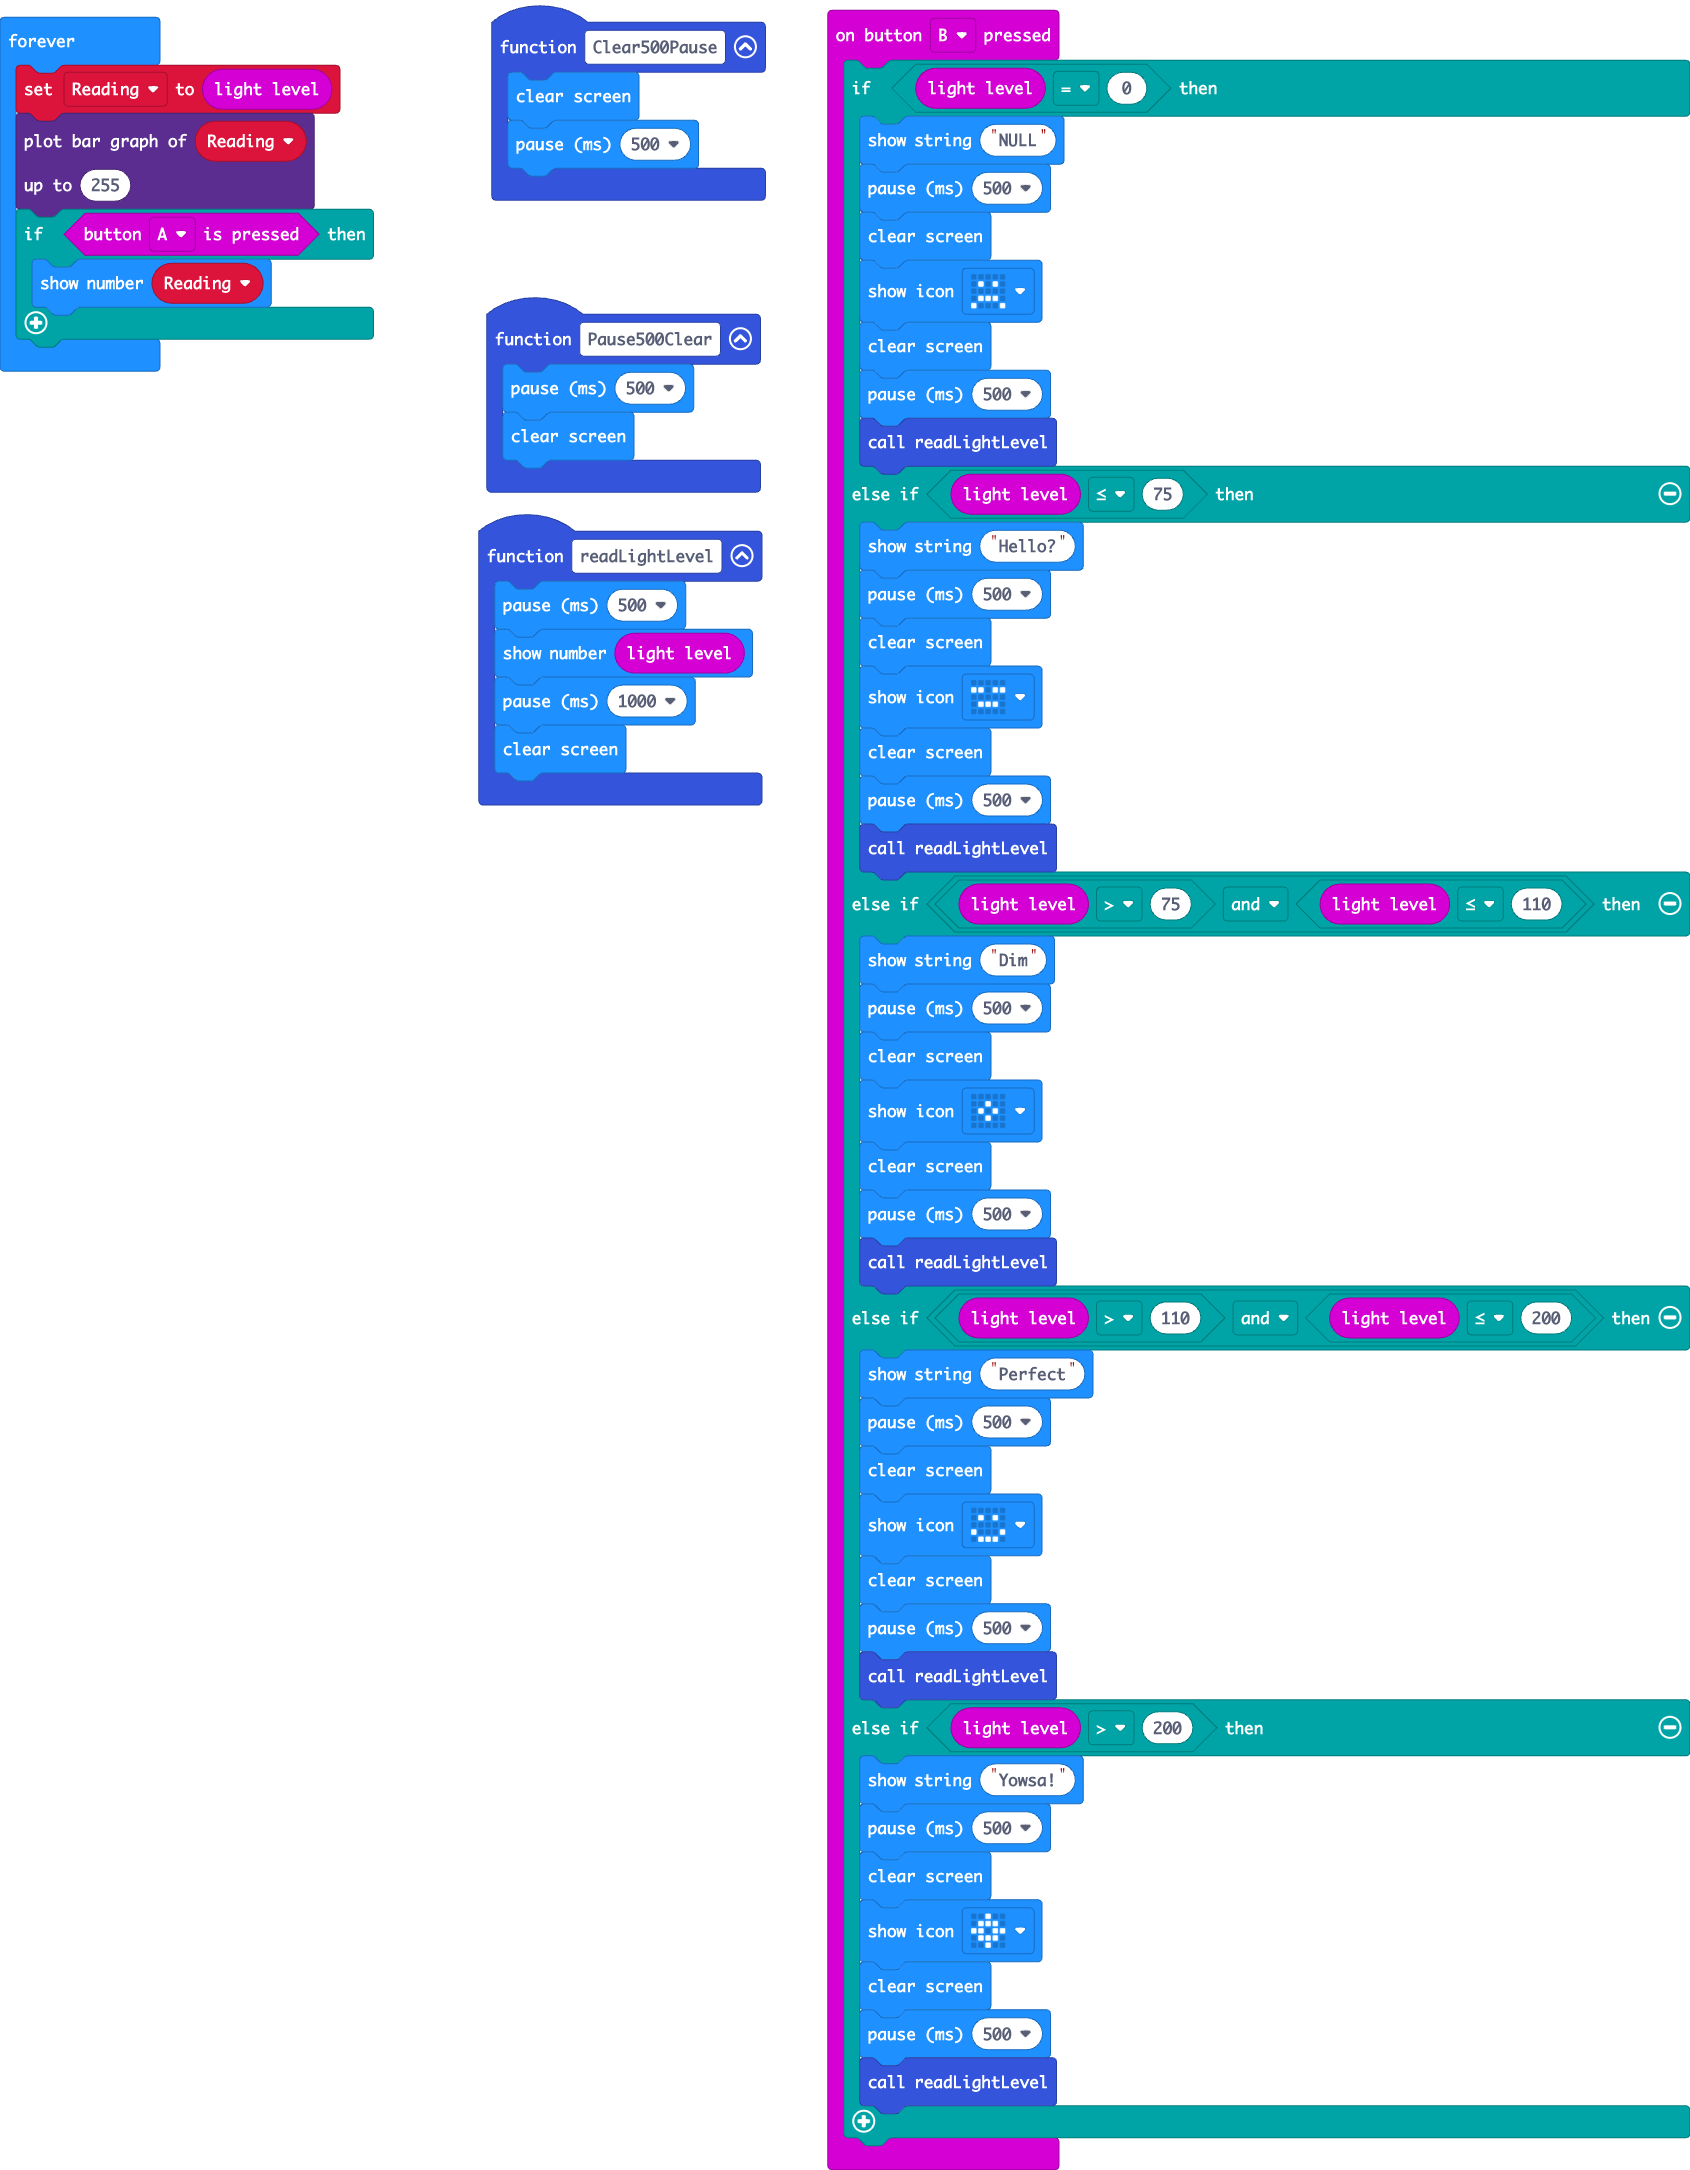
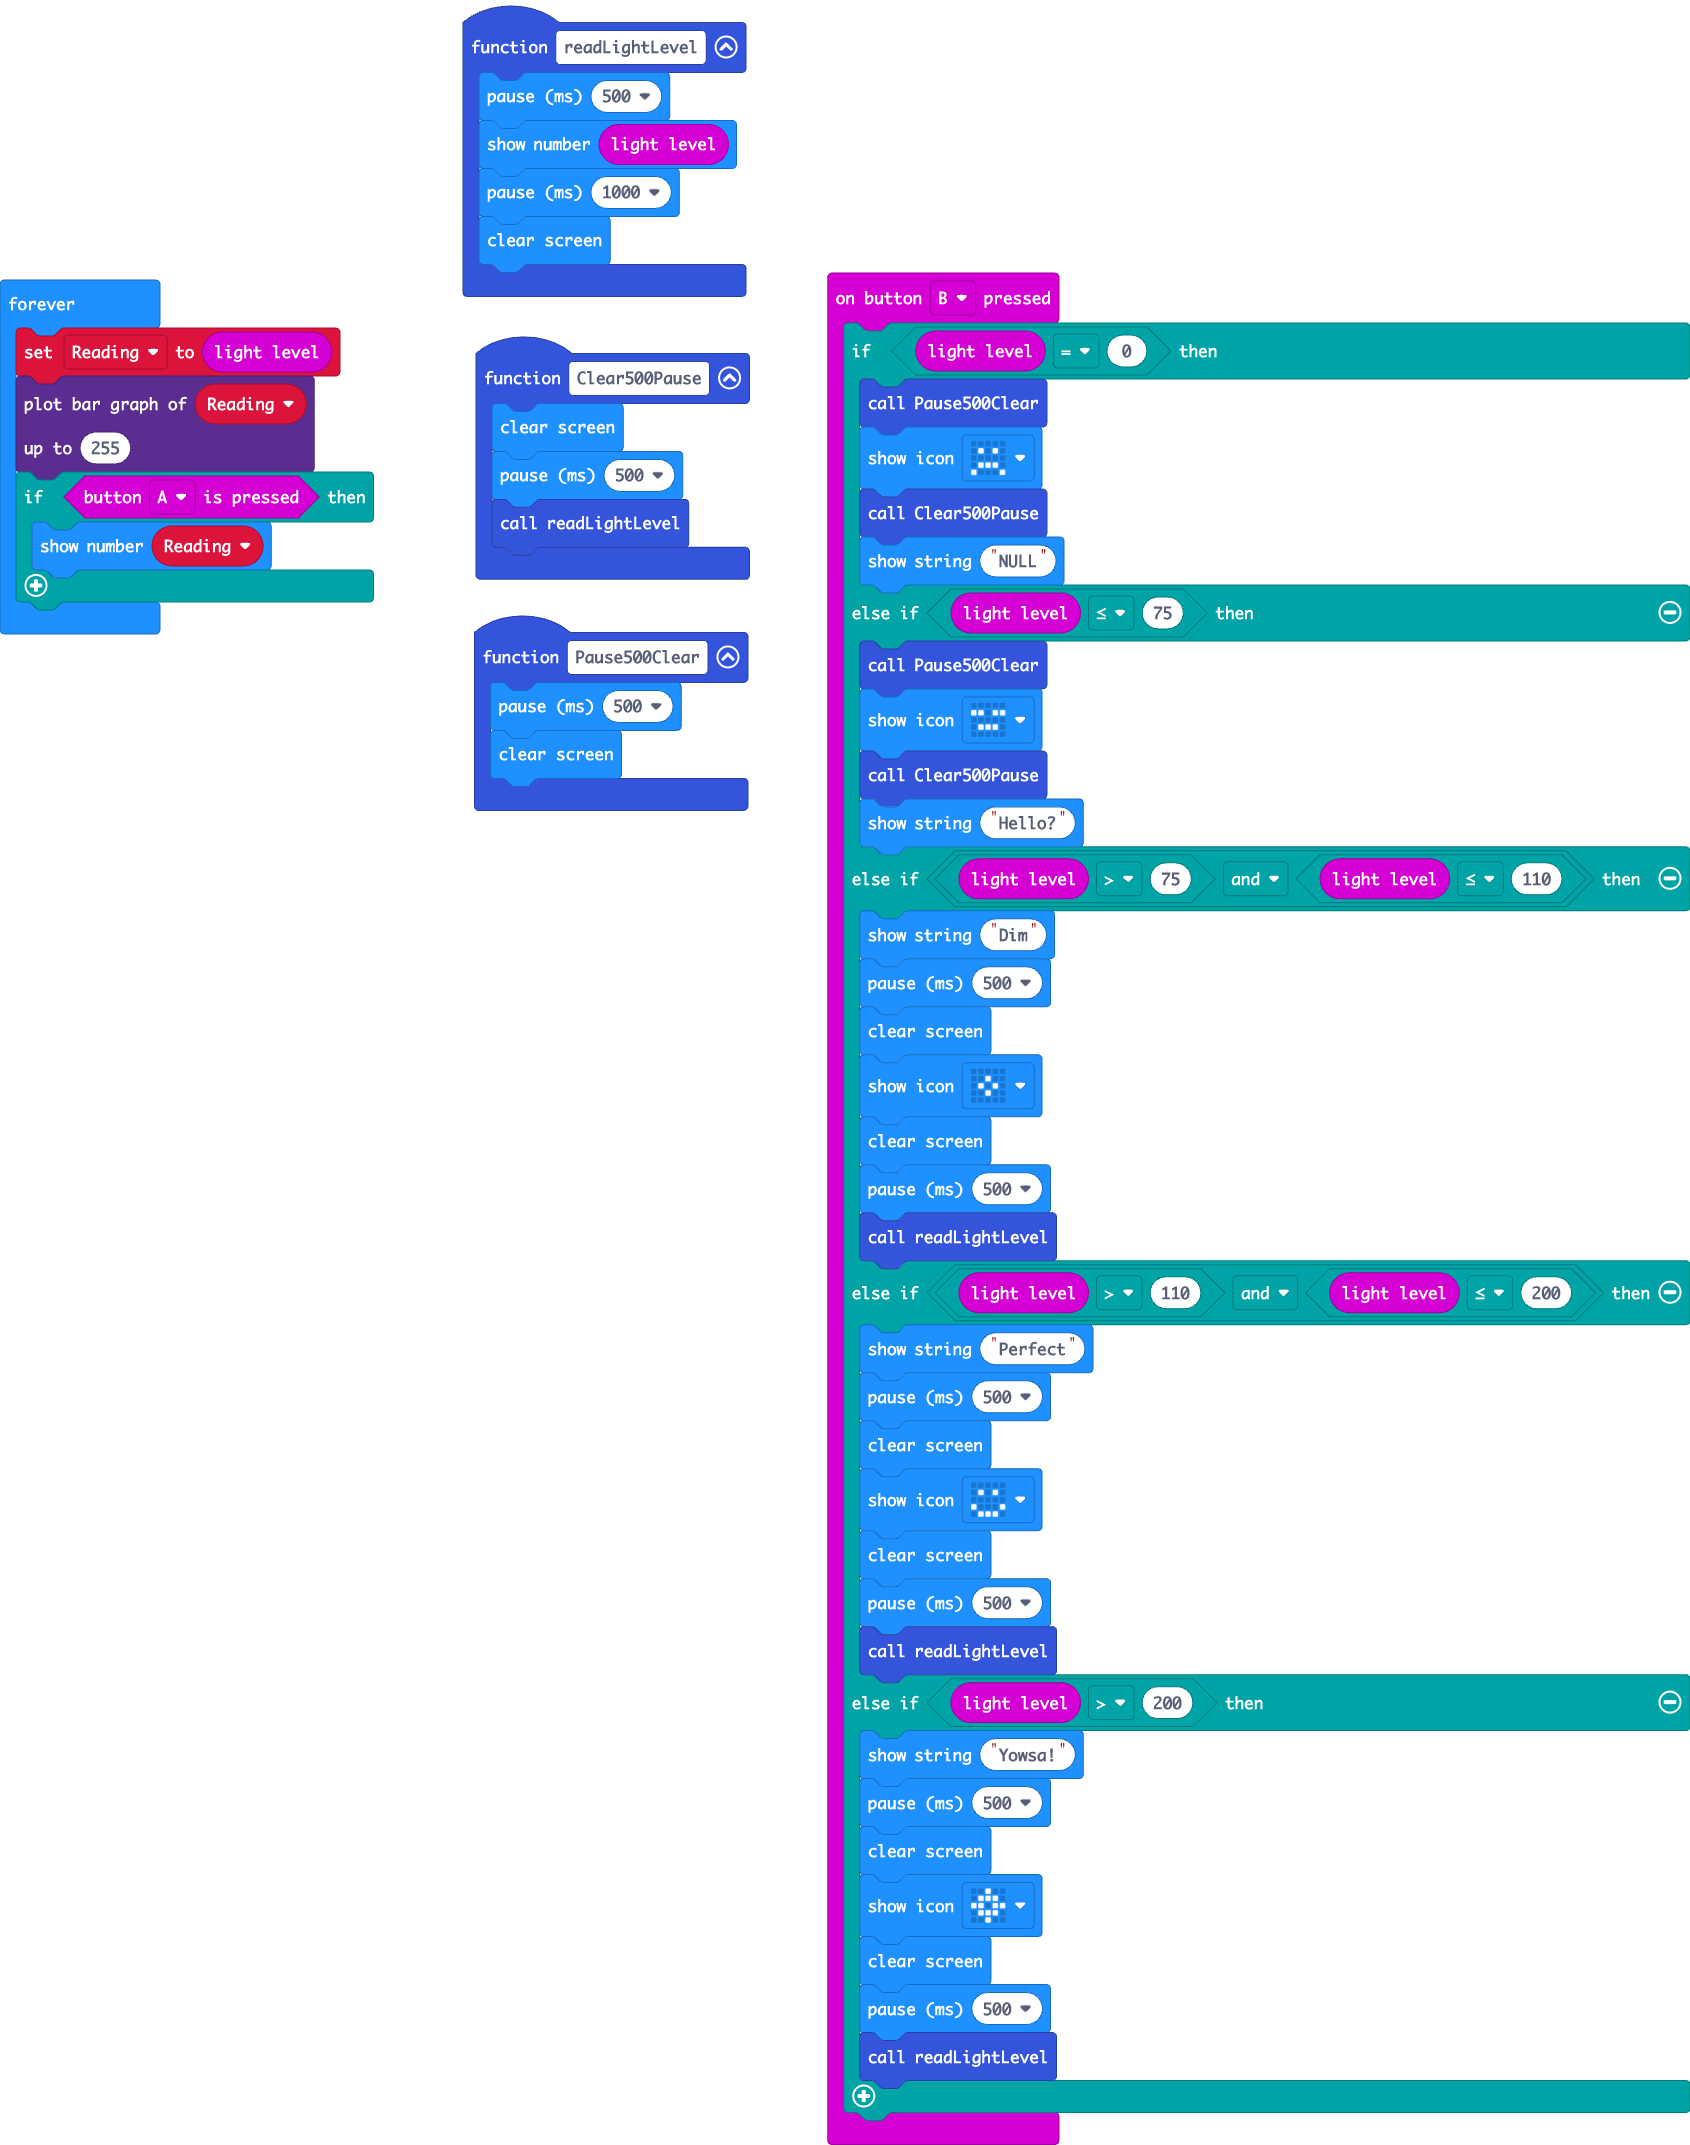
Update main.blocks, main.ts

Changed region(s): [[0.4923, 0.0, 1.0, 0.9683], [0.0, 0.0, 0.4615, 0.4061]]

diff --git a/main.ts b/main.ts
@@ -11,21 +11,15 @@ function readLightLevel () {
 }
 input.onButtonPressed(Button.B, function () {
     if (input.lightLevel() == 0) {
-        basic.showString("NULL")
-        basic.pause(500)
-        basic.clearScreen()
+        Pause500Clear()
         basic.showIcon(IconNames.Sad)
-        basic.clearScreen()
-        basic.pause(500)
-        readLightLevel()
+        Clear500Pause()
+        basic.showString("NULL")
     } else if (input.lightLevel() <= 75) {
-        basic.showString("Hello?")
-        basic.pause(500)
-        basic.clearScreen()
+        Pause500Clear()
         basic.showIcon(IconNames.Asleep)
-        basic.clearScreen()
-        basic.pause(500)
-        readLightLevel()
+        Clear500Pause()
+        basic.showString("Hello?")
     } else if (input.lightLevel() > 75 && input.lightLevel() <= 110) {
         basic.showString("Dim")
         basic.pause(500)
@@ -55,6 +49,7 @@ input.onButtonPressed(Button.B, function () {
 function Clear500Pause () {
     basic.clearScreen()
     basic.pause(500)
+    readLightLevel()
 }
 basic.forever(function () {
     Reading = input.lightLevel()
